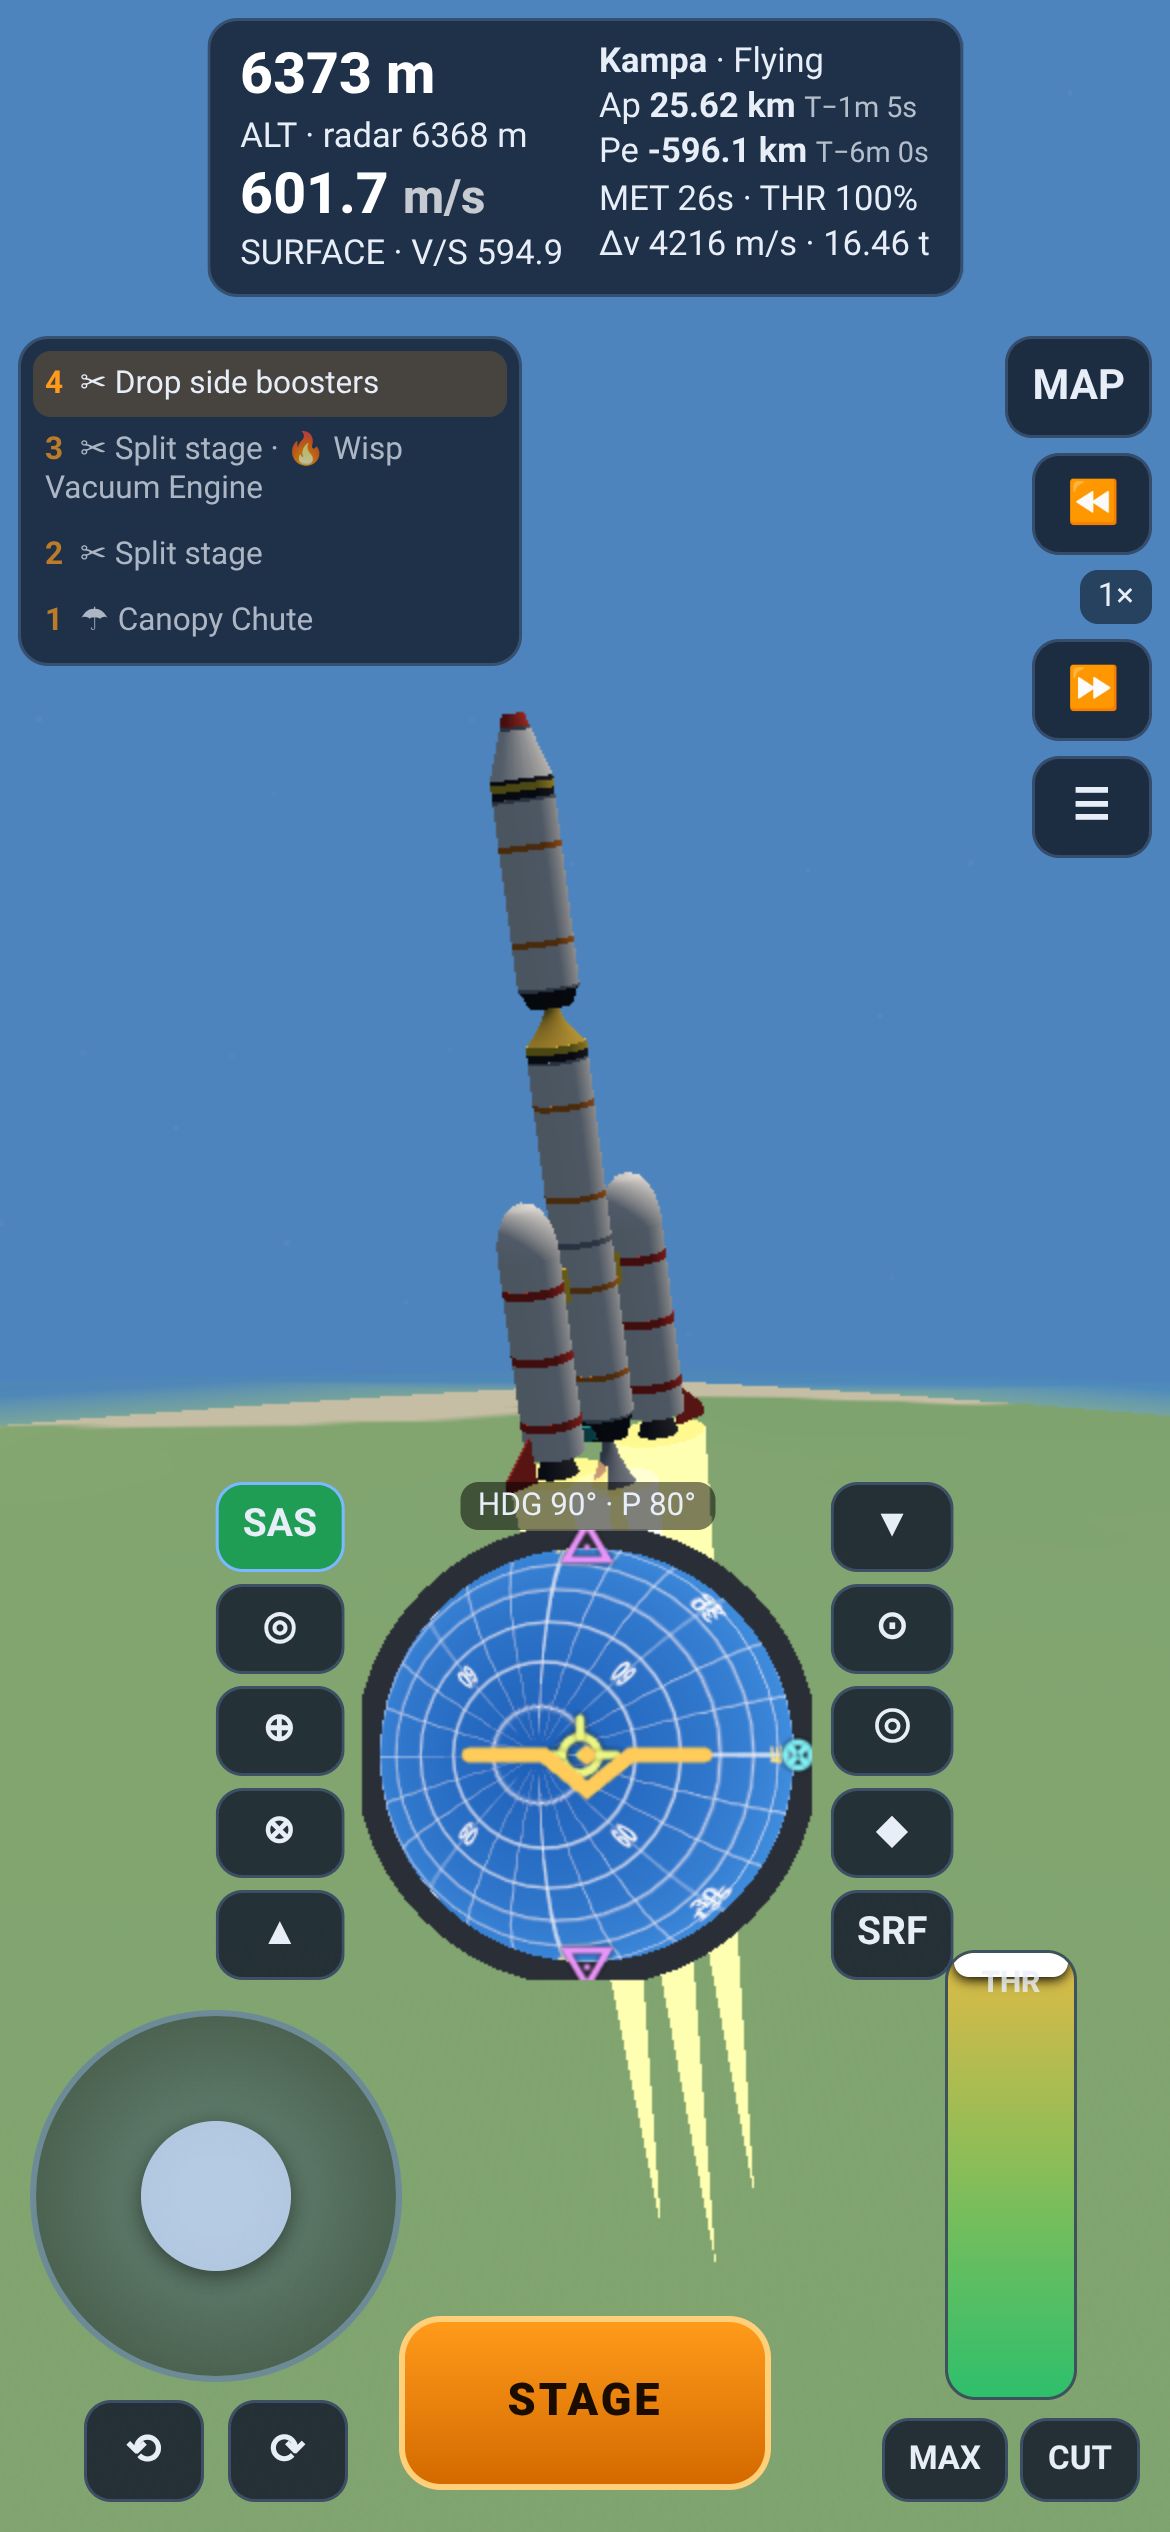
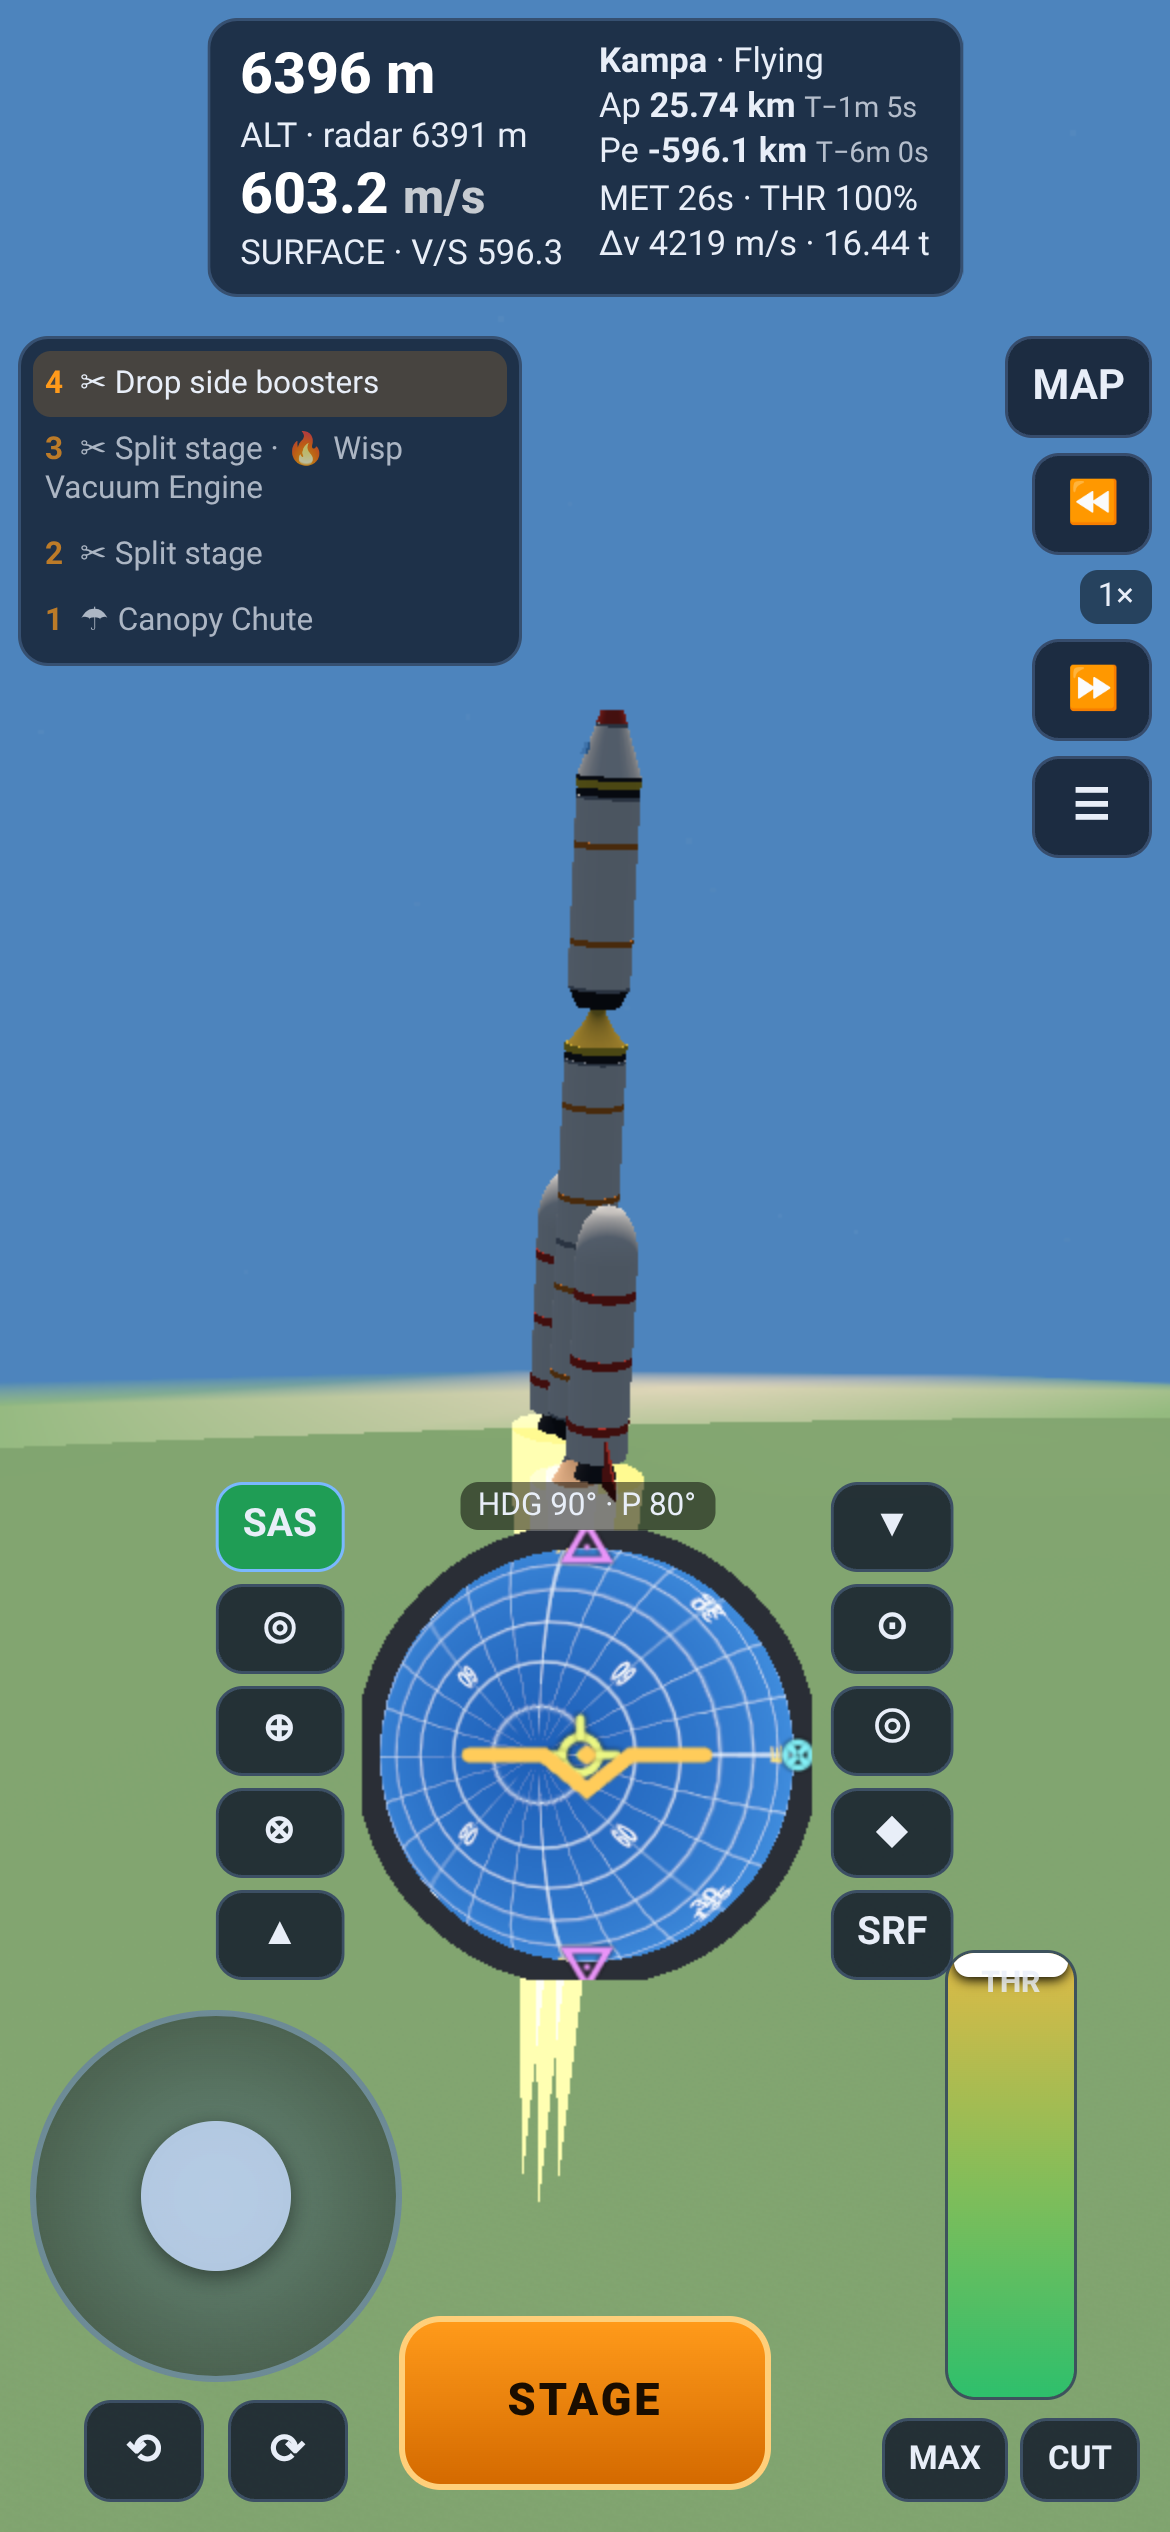
Move service tower behind default camera; refresh screenshots

diff --git a/js/world.js b/js/world.js
@@ -100,8 +100,8 @@ gl_FragColor = vec4(vec3(0.35,0.6,1.0)*pow(rim,2.5)*1.3*lit, 1.0); }`,
     const box = (w, h, d, m, x, y, z) => { const me = new THREE.Mesh(new THREE.BoxGeometry(w, h, d), m); me.position.set(x, y, z); g.add(me); return me; };
     box(30, 4, 30, conc, 0, -2, 0);               // pad (top at local y=0)
     box(10, 0.1, 10, dark, 0, 0.05, 0);
-    box(1.6, 34, 1.6, stripe, 0, 15, 10);            // service tower (west of pad)
-    box(1.0, 0.5, 6, stripe, 0, 24, 7);
+    box(1.6, 34, 1.6, stripe, -5, 15, 11);           // service tower (behind the rocket from the default camera)
+    box(1.0, 0.5, 7, stripe, -4.2, 24, 7.5);
     box(60, 0.2, 8, dark, 50, 0.1, 0);              // road
     box(40, 26, 30, wall, 110, 13, -30);           // assembly hall
     box(30, 10, 20, wall, 110, 5, 40);
